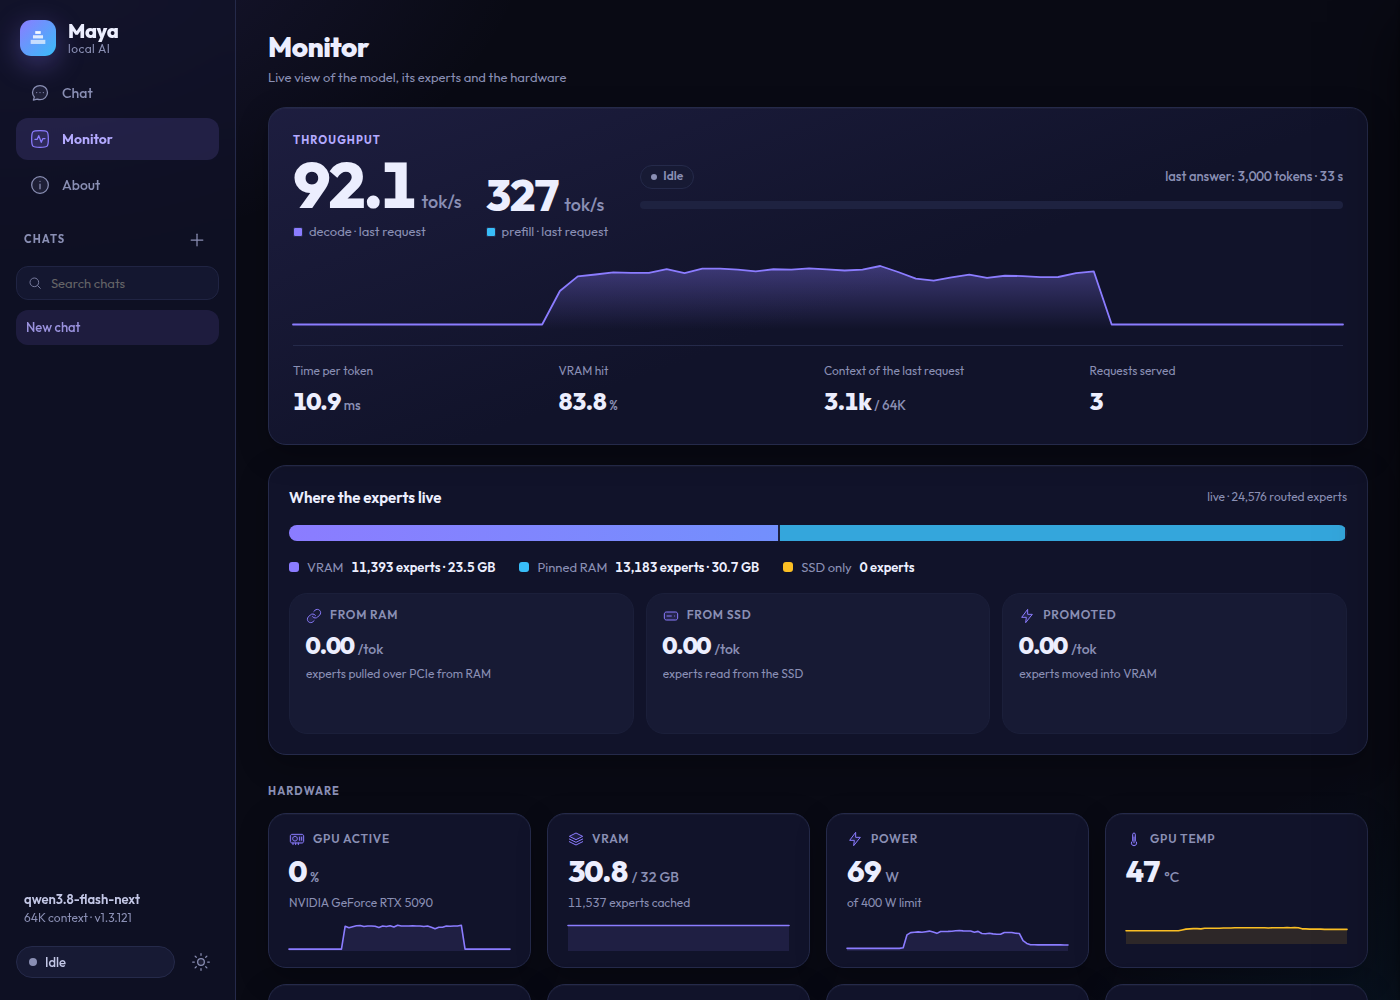
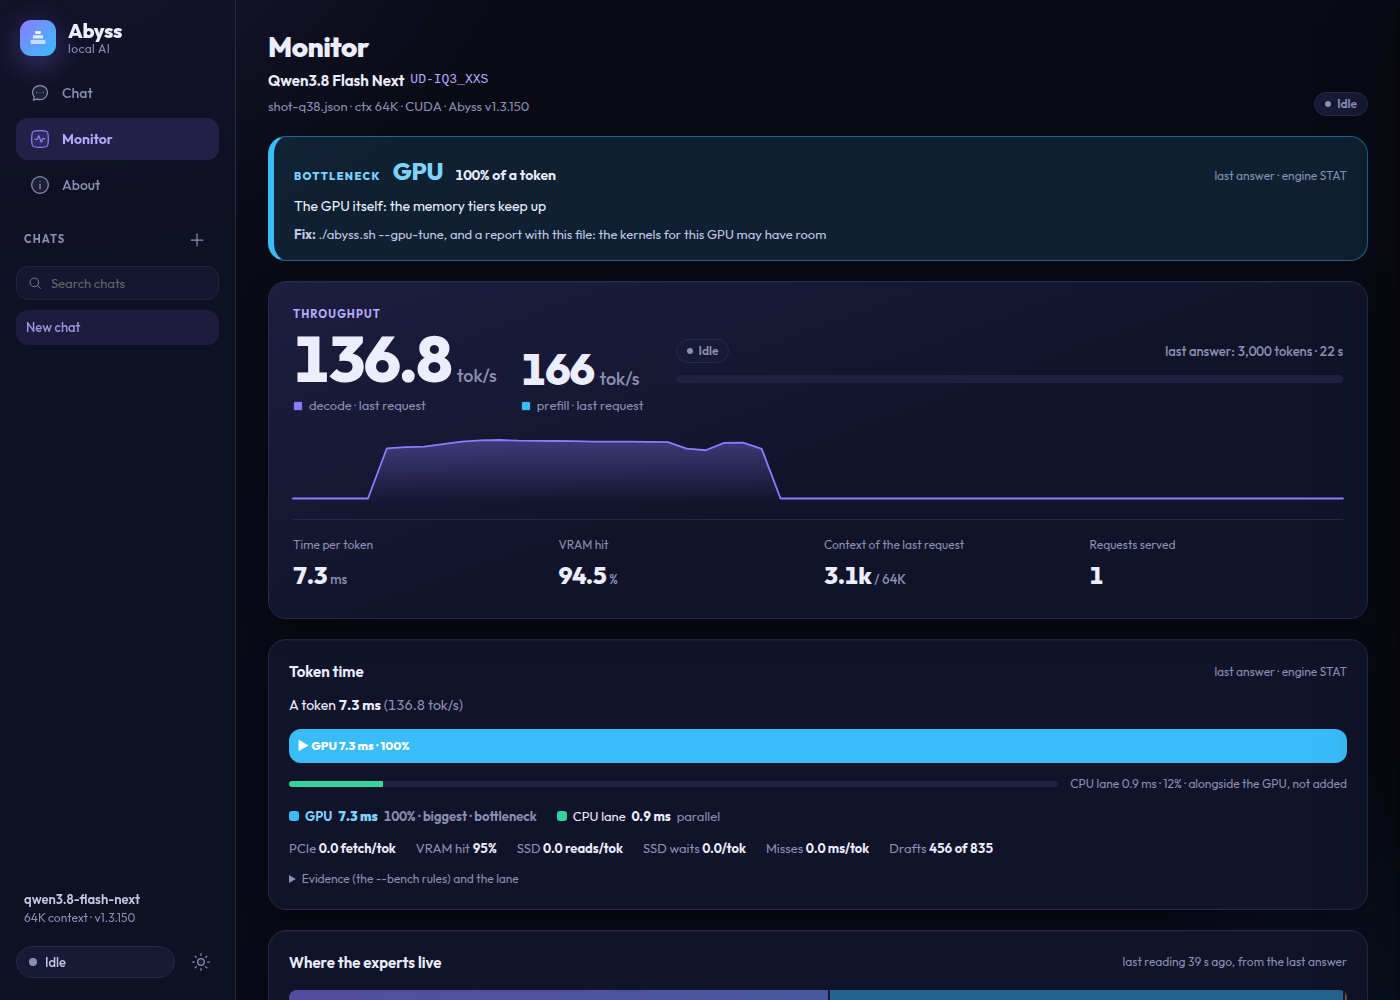
README: new dashboard screenshot (Abyss name, v1.3.150, Qwen3.8-Flash-Next UD-IQ3_XXS 136.8 tok/s)
Claude-Session: https://claude.ai/code/session_01W1FCYNmEZS7ArhazGUt721

diff --git a/README.md b/README.md
@@ -149,11 +149,11 @@ does not fit in VRAM + RAM, the SSD's speed sets the decode speed.
 
 ## 🖼 The dashboard
 
-![The dashboard's Monitor: decode 92.1 tok/s, the experts in VRAM and pinned RAM, the GPU](docs/img/dashboard-monitor.png)
+![The dashboard's Monitor: decode 136.8 tok/s, the bottleneck, where a token's time goes](docs/img/dashboard-monitor.png)
 
-The browser dashboard (`http://127.0.0.1:8082/`, Monitor tab) right after a 3,000-token coding answer: Qwen3.8-Flash-Next-IQ3_M-16G64G
-set up with `./setup-deepseek.sh --model qwen38` on an RTX 5090 (32 GB) + 123 GB RAM - 92.1 tok/s decode, 83.8% of the
-experts a token found in VRAM, the rest in pinned RAM, none read from the SSD. The Chat tab is the chat; the same server answers the OpenAI / Anthropic APIs.
+The browser dashboard (`http://127.0.0.1:8082/`, Monitor tab) right after a 3,000-token coding answer (v1.3.150):
+Qwen3.8-Flash-Next UD-IQ3_XXS on an RTX 5090 (32 GB) + 123 GB RAM - 136.8 tok/s decode, 94.5% of the experts a token
+uses found in VRAM, the rest in pinned RAM, none read from the SSD; the GPU itself is the bottleneck. The Chat tab is the chat; the same server answers the OpenAI / Anthropic APIs.
 
 ## 📊 Performance
 
